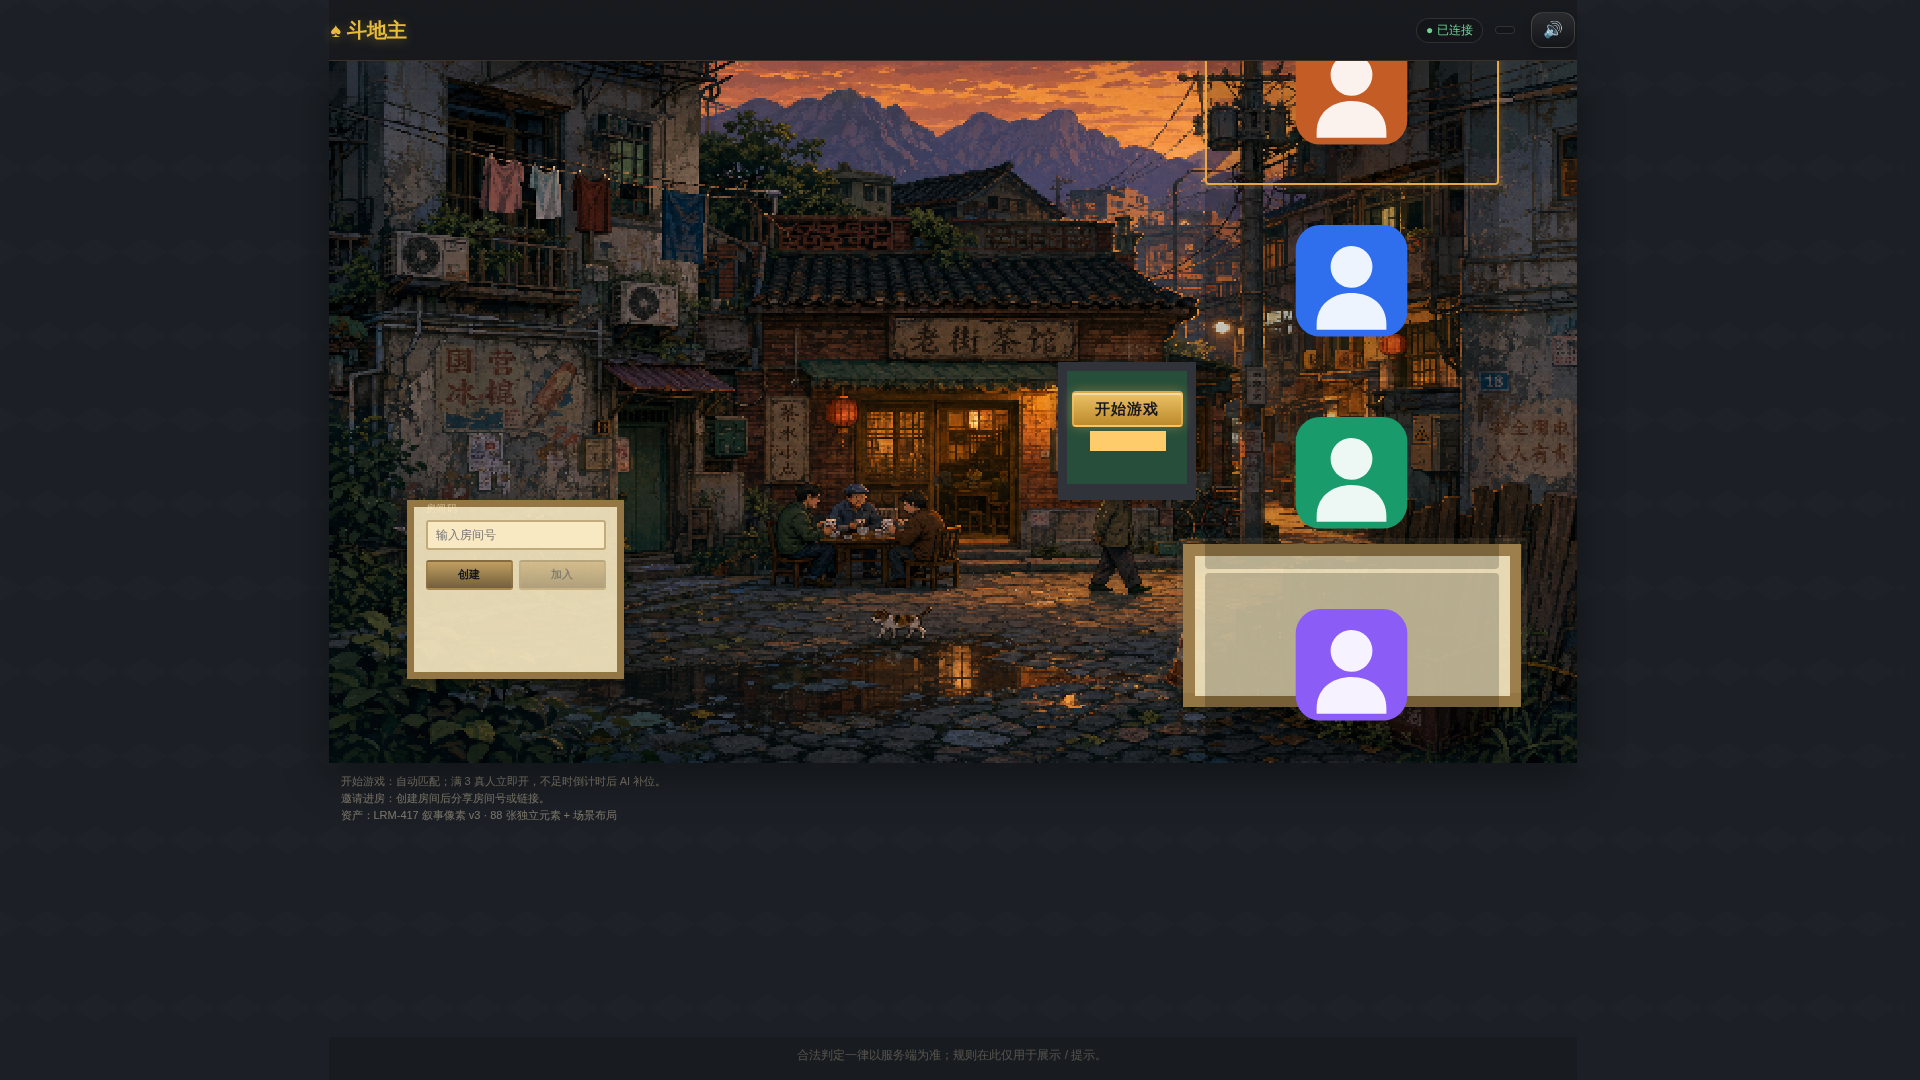
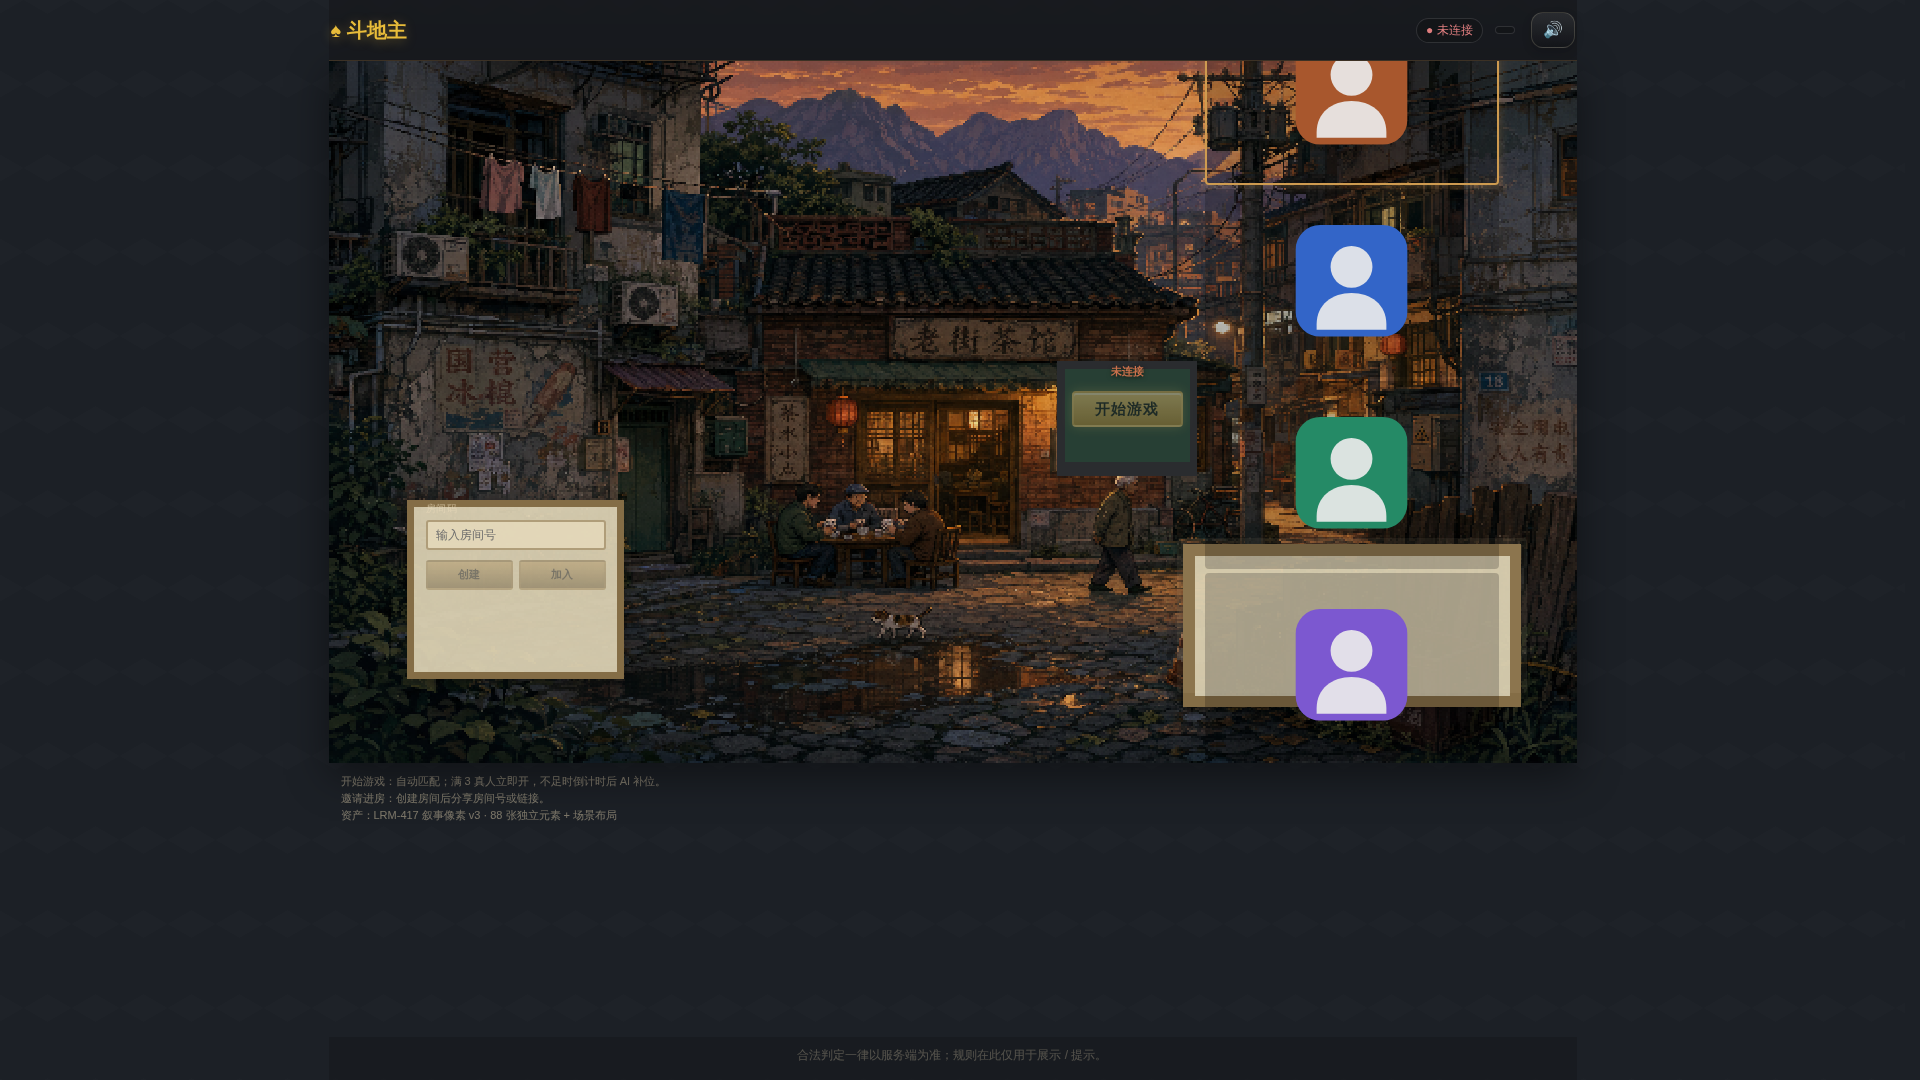
fix(client): LRM-579 fill 390 lobby with v3 bake scene
Narrow viewports were locked to a 16:9 strip over gray body; make the
locked bake cover the full phone content area and re-capture skip-guide
previews for AC#2.

diff --git a/apps/client/src/narrative-lobby.css b/apps/client/src/narrative-lobby.css
@@ -403,7 +403,72 @@ body.app--lobby-page .content {
   line-height: 1.55;
 }
 
+/* LRM-579 AC#2：窄屏勿再锁 16:9 条带 + 灰底；场景须铺满可视区（cover 裁切，锚点茶馆）。 */
 @media (max-width: 720px) {
+  body.app--lobby-page .app {
+    max-width: none;
+    width: 100%;
+    height: 100dvh;
+    min-height: 100dvh;
+    max-height: 100dvh;
+    padding: 0;
+    overflow: hidden;
+  }
+
+  body.app--lobby-page .topnav {
+    flex: 0 0 auto;
+    padding-inline: 12px;
+  }
+
+  body.app--lobby-page .content {
+    flex: 1 1 auto;
+    min-height: 0;
+    padding: 0;
+    display: flex;
+    flex-direction: column;
+  }
+
+  body.app--lobby-page .foot {
+    display: none;
+  }
+
+  .np-lobby {
+    flex: 1 1 auto;
+    min-height: 0;
+    max-width: none;
+    width: 100%;
+    display: flex;
+    flex-direction: column;
+  }
+
+  .np-lobby__viewport {
+    flex: 1 1 auto;
+    width: 100%;
+    min-height: 0;
+    height: auto;
+    aspect-ratio: auto;
+    border-radius: 0;
+    box-shadow: none;
+  }
+
+  .np-lobby__layer--full {
+    object-fit: cover;
+    /* 1920×1080 bake → 竖屏 cover：横向裁切，纵向锚在茶馆招牌/街道 */
+    object-position: 50% 42%;
+  }
+
+  .np-tips {
+    position: absolute;
+    left: 0;
+    right: 0;
+    bottom: 0;
+    z-index: 12;
+    margin: 0;
+    padding: 10px 12px 14px;
+    background: linear-gradient(180deg, transparent, rgba(22, 24, 28, 0.78));
+    pointer-events: none;
+  }
+
   .np-hotspot--ledger {
     left: 4% !important;
     top: 58% !important;

diff --git a/apps/client/e2e/lrm579-lobby-v3.spec.ts b/apps/client/e2e/lrm579-lobby-v3.spec.ts
@@ -55,13 +55,27 @@ test('LRM-579 lobby uses locked v3 bake — dual viewport screenshots', async ({
     const src = await full.getAttribute('src');
     expect(src).toContain('scene-full-1920x1080.png');
     await expect(p.getByRole('button', { name: '开始游戏' })).toBeVisible();
+    await expect
+      .poll(async () => full.evaluate((el) => (el as HTMLImageElement).naturalWidth))
+      .toBeGreaterThan(0);
     await p.waitForTimeout(600);
-    const scroll = await p.evaluate(() => ({
-      docH: document.documentElement.scrollHeight,
-      winH: window.innerHeight,
-    }));
+    const metrics = await p.evaluate(() => {
+      const viewport = document.querySelector('.np-lobby__viewport');
+      const r = viewport?.getBoundingClientRect();
+      return {
+        docH: document.documentElement.scrollHeight,
+        winH: window.innerHeight,
+        vpH: r?.height ?? 0,
+        vpW: r?.width ?? 0,
+      };
+    });
     if (vp.width === 1920) {
-      expect(scroll.docH).toBeLessThanOrEqual(scroll.winH + 2);
+      expect(metrics.docH).toBeLessThanOrEqual(metrics.winH + 2);
+    }
+    if (vp.width === 390) {
+      // Scene must fill most of the phone viewport — not a thin 16:9 strip over gray body.
+      expect(metrics.vpH).toBeGreaterThan(metrics.winH * 0.7);
+      expect(metrics.vpW).toBeGreaterThan(metrics.winH * 0.4);
     }
     await p.screenshot({ path: path.join(outDir, name), fullPage: false });
     await ctx.close();